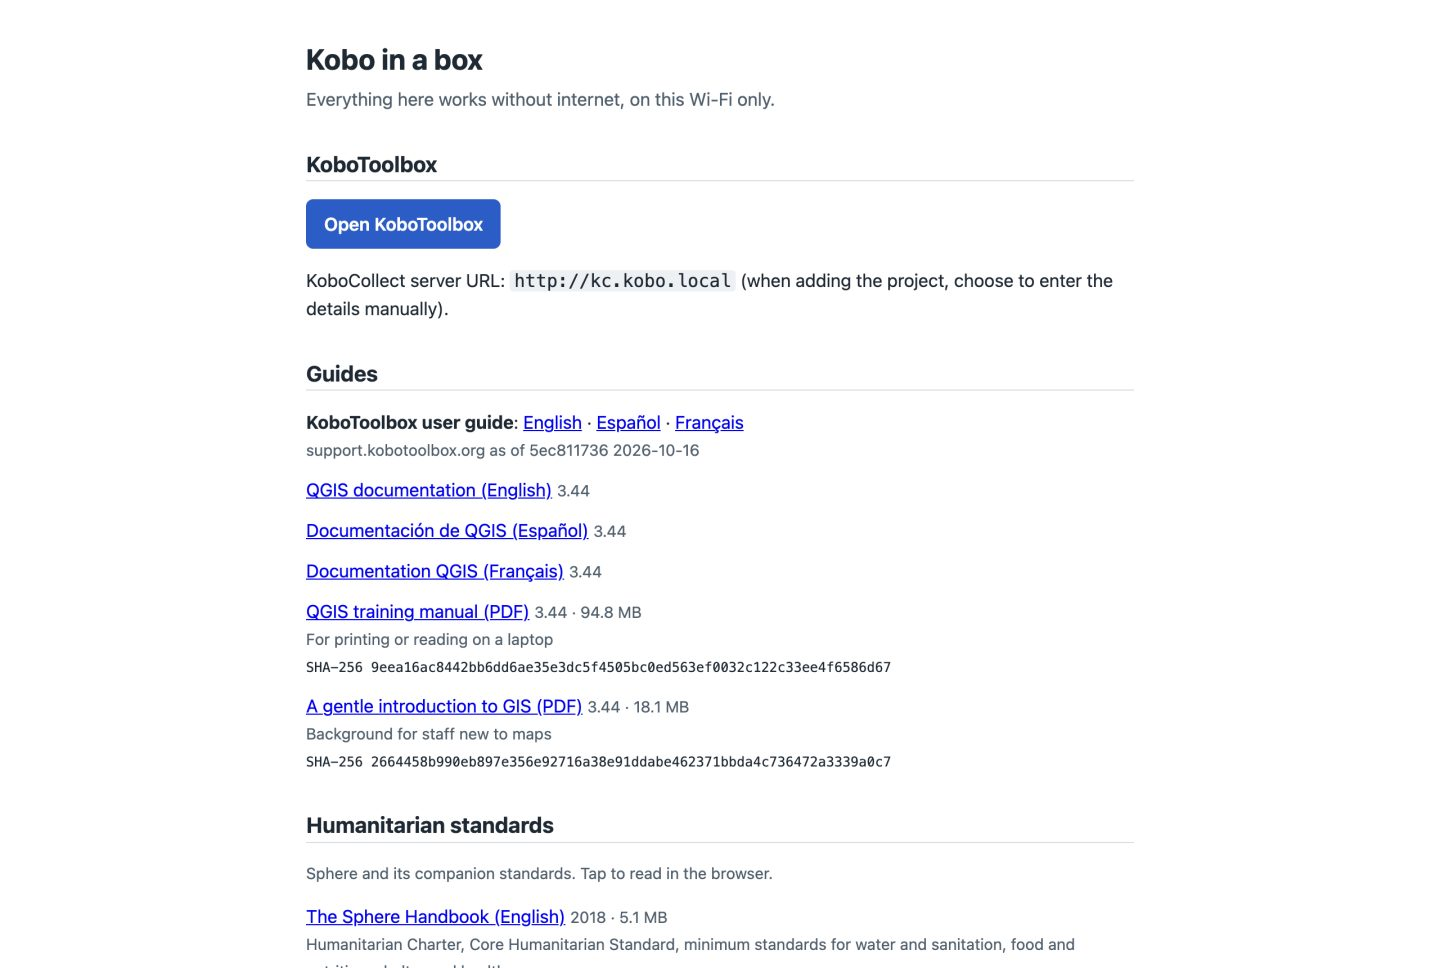
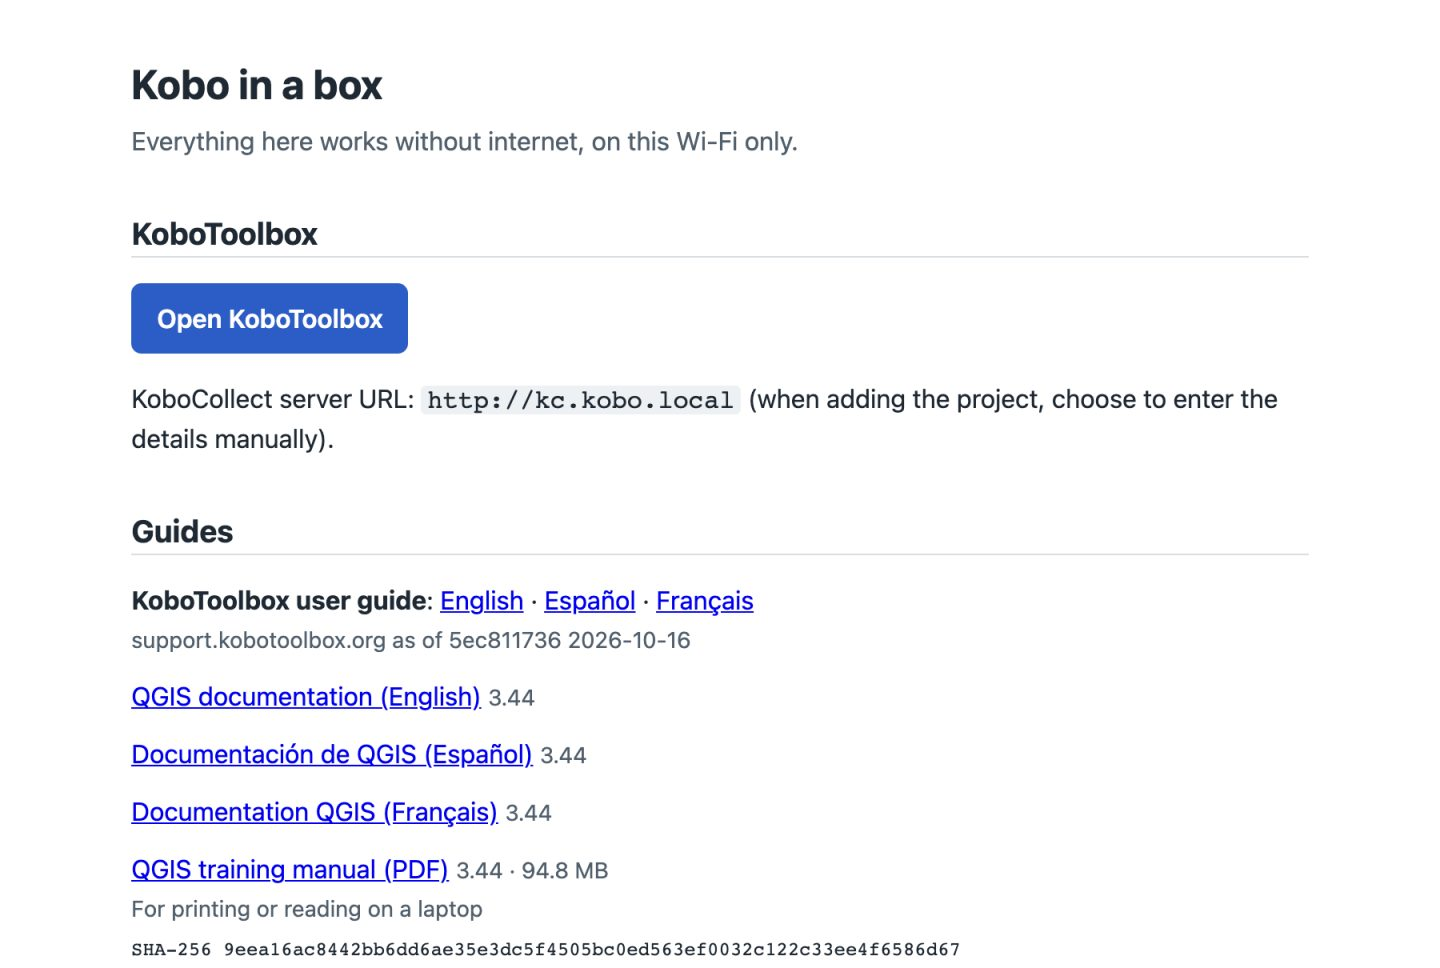
Homepage: KoboToolbox screenshots from the rig, standards section
Signed-in screens taken on the droplet with site/kobo-shots.py (the test
user's password stays there): the data table with the assistant's three
held duplicates, and the transcript, translation and analysis tabs from the
e2e project, cropped so the text reads at column width. The landing page and
its standards section retaken with the Arabic fix live. Screenshots open full
size.

STATUS: web sign-in fails offline for users with an unverified email (KPI's
mandatory verification tries to send mail; 500). Fixed for e2e on the rig;
the kit's user setup needs to handle it.

Changed region(s): [[0.0938, 0.031, 0.9062, 0.9917]]

diff --git a/site/index.html b/site/index.html
@@ -33,7 +33,7 @@
       <a class="button button--filled" href="#field">How to use it</a>
       <a class="button button--light" href="#results">Measured results</a>
     </div>
-    <div class="shot"><img src="static/home/landing.jpg" width="1440" height="968" alt="The kit's home page at kobo.local in a laptop browser: a heading Kobo in a box, Everything here works without internet, on this Wi-Fi only; a button Open KoboToolbox and the KoboCollect server URL http://kc.kobo.local; then guides: the KoboToolbox user guide in English, Español and Français, QGIS documentation in three languages and two PDF manuals with their size and SHA-256."></div>
+    <div class="shot"><a href="static/home/landing.jpg"><img src="static/home/landing.jpg" width="1440" height="968" alt="The kit's home page at kobo.local in a laptop browser: a heading Kobo in a box, Everything here works without internet, on this Wi-Fi only; a button Open KoboToolbox and the KoboCollect server URL http://kc.kobo.local; then guides: the KoboToolbox user guide in English, Español and Français, QGIS documentation in three languages and two PDF manuals with their size and SHA-256."></a></div>
   </div>
 </section>
 
@@ -101,7 +101,7 @@
 <h3>Connect</h3>
 <p>Join the kit's Wi-Fi and open <code>kobo.local</code> in a browser. The page works the same on a phone. If a device can't find <code>kobo.local</code>, the kit's address (printed on its label card) shows the same page.</p>
 <div class="figures">
-<figure><img src="static/home/landing-phone.jpg" width="780" height="1688" alt="The same home page on a phone: Open KoboToolbox, the KoboCollect server URL, and the list of guides."><figcaption>The home page on a phone.</figcaption></figure>
+<figure><a href="static/home/landing-phone.jpg"><img src="static/home/landing-phone.jpg" width="780" height="1688" alt="The same home page on a phone: Open KoboToolbox, the KoboCollect server URL, and the list of guides."></a><figcaption>The home page on a phone.</figcaption></figure>
 <div>
 <h4>Set up a phone for data collection</h4>
 <ol>
@@ -119,9 +119,9 @@
 
 <h3>Supervise, clean and export</h3>
 <p><strong>Open KoboToolbox</strong> on the home page (<code>kf.kobo.local</code>) from any laptop on the Wi-Fi. Every KoboToolbox feature is there: the form builder, the data table, reports, maps, validation statuses, and exports to Excel, CSV, SPSS labels and GIS formats. Each person signs in with their own account and permissions, as they would online.</p>
-<!-- figure:kobo-table -->
+<figure><a href="static/home/kobo-table.jpg"><img src="static/home/kobo-table.jpg" width="1440" height="900" alt="KoboToolbox's data table for the household water survey, 63 results: columns for validation, enumerator, interview date, district, household head's name and phone number. The first three rows are marked On hold."></a><figcaption>KoboToolbox on the kit: the test survey's data table. The three rows on hold are duplicates the assistant was asked to hold (<a href="#assistant">see below</a>).</figcaption></figure>
 <p>The KoboToolbox user guide is on the kit in English, Spanish and French, with its links pointing at the local copy, so the help pages open with no internet.</p>
-<figure><img src="static/home/kobo-guide.jpg" width="1440" height="968" alt="The KoboToolbox help center home page, What do you need help with?, with topic cards for Getting Started, Account and Billing and Using the Formbuilder, served from kobo.local."><figcaption>The KoboToolbox user guide, served by the kit. Its pages load nothing from the internet.</figcaption></figure>
+<figure><a href="static/home/kobo-guide.jpg"><img src="static/home/kobo-guide.jpg" width="1440" height="968" alt="The KoboToolbox help center home page, What do you need help with?, with topic cards for Getting Started, Account and Billing and Using the Formbuilder, served from kobo.local."></a><figcaption>The KoboToolbox user guide, served by the kit. Its pages load nothing from the internet.</figcaption></figure>
 </section>
 
 <section id="ai">
@@ -133,7 +133,15 @@
   <li><strong>Qualitative analysis</strong>Analysis questions you define ("Which water sources does the respondent mention?") get a suggested answer for staff to accept or change. Gemma 4, with KoboToolbox's own prompts.</li>
   <li><strong>Background jobs</strong>Long recordings run in the background, so a slow kit doesn't time out; results appear when they're done, and can run overnight on mains or solar.</li>
 </ul>
-<!-- figure:kobo-ai -->
+<figure><a href="static/home/kobo-transcript.jpg"><img src="static/home/kobo-transcript.jpg" width="1440" height="497" alt="KoboToolbox's processing screen for an audio answer, Transcript tab: a Spanish transcript generated on the box, with Discard and Save buttons, next to the 18-second recording and the respondent's written answer."></a><figcaption><strong>Transcription.</strong> An 18-second Spanish recording (a test clip from FLEURS) transcribed by Whisper on the box. Staff can edit the text, then save or discard it.</figcaption></figure>
+<figure><a href="static/home/kobo-translation.jpg"><img src="static/home/kobo-translation.jpg" width="1440" height="576" alt="The Translations tab: the respondent's English answer about a broken borehole, daughters walking two hours to the river, five children and school fees, translated into Spanish."></a><figcaption><strong>Translation.</strong> An open-text answer translated into Spanish by Gemma 4 on the box.</figcaption></figure>
+<div class="figures figures--half">
+<figure><a href="static/home/kobo-analysis.jpg"><img src="static/home/kobo-analysis.jpg" width="1220" height="1600" alt="The Analysis tab with three questions answered and marked AI generated, Please verify if correct: main water source River or stream; needs mentioned Water infrastructure repair and School fees; number of children 5."></a><figcaption><strong>Qualitative analysis</strong> on the box.</figcaption></figure>
+<div>
+<p>Analysis questions are set up once per project: a single choice, multiple choices, a number, a tag or free text. For this interview, the box answered all three correctly: the main water source is a river or stream, the needs mentioned are repairing the borehole and school fees, and the respondent has five children.</p>
+<p>Each answer stays marked <em>AI generated</em>, with "Please verify if correct", until someone ticks <strong>Verified</strong> or changes it.</p>
+</div>
+</div>
 <p class="note">AI output is always a suggestion. Staff see it next to the source, correct it, and decide what is kept. How well it works depends on the language: <a href="#results">see the results</a>, and test each deployment's languages before relying on it.</p>
 </section>
 
@@ -165,7 +173,7 @@
     <tr><td>Windows and Mac</td><td>QGIS (long-term release) for maps from Kobo GPS data; LibreOffice for editing XLSForms and opening exports</td></tr>
   </tbody>
 </table></div>
-<!-- figure:standards -->
+<figure><a href="static/home/standards.jpg"><img src="static/home/standards.jpg" width="1000" height="1146" alt="The Humanitarian standards section of the kit's home page: the Sphere Handbook in English, French, Spanish and Arabic, the child protection minimum standards in the same four languages, and the INEE Minimum Standards for Education, each with its edition, size and SHA-256."></a><figcaption>Humanitarian standards on the kit's home page, each with its edition, size and fingerprint.</figcaption></figure>
 <p>PDFs open in the browser; installers download. Each deployment can add what its teams need: sector guidance, national protocols, guides in other languages, as long as their licences allow it. The standards come from the open-access editions of their publisher; Sphere and the child protection standards allow copies for programme activities, crediting the copyright holder.</p>
 </section>
 

diff --git a/site/static/site/home.css b/site/static/site/home.css
@@ -497,3 +497,5 @@ details > div > :last-child { margin-bottom: 0; }
 .prose svg.chart { display: block; width: 100%; height: auto; margin: 0.5rem 0; }
 .prose figure svg.chart + figcaption { margin-top: 0.25rem; }
 .prose pre { font-size: 0.8rem; }
+.prose .figures--half { grid-template-columns: 1fr 1fr; }
+@media (max-width: 640px) { .prose .figures--half { grid-template-columns: 1fr; } }

diff --git a/site/kobo-shots.py b/site/kobo-shots.py
@@ -3,9 +3,16 @@
 Screenshots of KoboToolbox's AI features for the homepage, signed in as the rig's test
 user. Runs ON THE DROPLET in the Playwright image, so the password never leaves it:
 
-    docker run --rm --network host --ipc=host -v /root/shots:/shots \
-      -v /root/kobo-box-ai/site-kobo-shots.py:/s.py:ro -v /root/e2e-user.pw:/pw:ro \
-      mcr.microsoft.com/playwright/python:v1.55.0-noble python3 /s.py
+    docker run --rm --network host --ipc=host \
+      --add-host kobo.local:127.0.0.1 --add-host kf.kobo.local:127.0.0.1 \
+      --add-host kc.kobo.local:127.0.0.1 --add-host ee.kobo.local:127.0.0.1 \
+      -v /root/shots:/shots -v /root/kobo-box-ai/site-kobo-shots.py:/s.py:ro \
+      -v /root/e2e-user.pw:/pw:ro mcr.microsoft.com/playwright/python:v1.55.0-noble \
+      sh -c "pip install -q --break-system-packages playwright==1.55.0; python3 /s.py"
+
+(The image has the browsers but not the Python package; --add-host is for the script's
+own API calls, which don't go through Chrome's host mapping.) The user's email must be
+verified, or sign-in fails offline (STATUS.md).
 
 Writes PNGs to /root/shots, plus links.txt (what each page offered), for site/ to pick
 from. Uses the newest "kobo-box e2e qual" project (made by e2e-nlp.py: a text answer and
@@ -55,8 +62,12 @@ def main():
 
         sub = pg.request.get(f'{KF}/api/v2/assets/{qual["uid"]}/data/?format=json').json()['results'][0]
         uuid = sub.get('meta/rootUuid', '').replace('uuid:', '') or sub['_uuid']
+        # Narrower and cropped to the content: the processing panels are mostly empty
+        # space at 1440 × 900, and the page shows these at text-column width
+        heights = {'transcript': 380, 'translations': 440, 'analysis': 1000}
         for xpath in ('a1', 'q1'):
             for tab in ('transcript', 'translations', 'analysis'):
+                pg.set_viewport_size({'width': 1100, 'height': heights[tab]})
                 pg.goto(f'{KF}/#/forms/{qual["uid"]}/data/processing/{xpath}/{uuid}/{tab}')
                 shot(pg, f'k-proc-{xpath}-{tab}', 6)
                 links.append(f'{xpath}/{tab}: ' + ' | '.join(

diff --git a/STATUS.md b/STATUS.md
@@ -110,6 +110,15 @@ Testing W2 on the CPU droplet (state kept in the snapshot):
   aren't benchmarks.
 - **E2E:** `remote/e2e-nlp.py` covers qual, translation and transcription. Run it as
   `e2e`, a regular user, password in `/root/e2e-user.pw`.
+- **Web sign-in fails offline for unverified emails (found 2026-10-30).** KPI runs with
+  `ACCOUNT_EMAIL_VERIFICATION = mandatory`, so signing in as a user whose email isn't
+  verified makes allauth send a confirmation mail; with no mail server the login POST
+  returns 500. API tokens are unaffected, which is why the tests never hit it. On the rig
+  `e2e`'s `EmailAddress` is now marked verified. For the kit: the user-creation script must
+  mark emails verified (or the box sets verification to `none`), and mail should go to a
+  backend that doesn't connect out.
+- **Homepage screenshots:** `site/kobo-shots.py` runs in the Playwright image on the
+  droplet (command in its docstring, plus `--add-host` for the four `*.kobo.local` names).
 - **Firewall:** this network's outgoing IP rotates (several changes on 2026-10-28).
   When SSH times out, compare `curl -4 ifconfig.me` with the firewall's inbound rules and
   add the new IP with `doctl compute firewall add-rules` (don't replace the list: the
